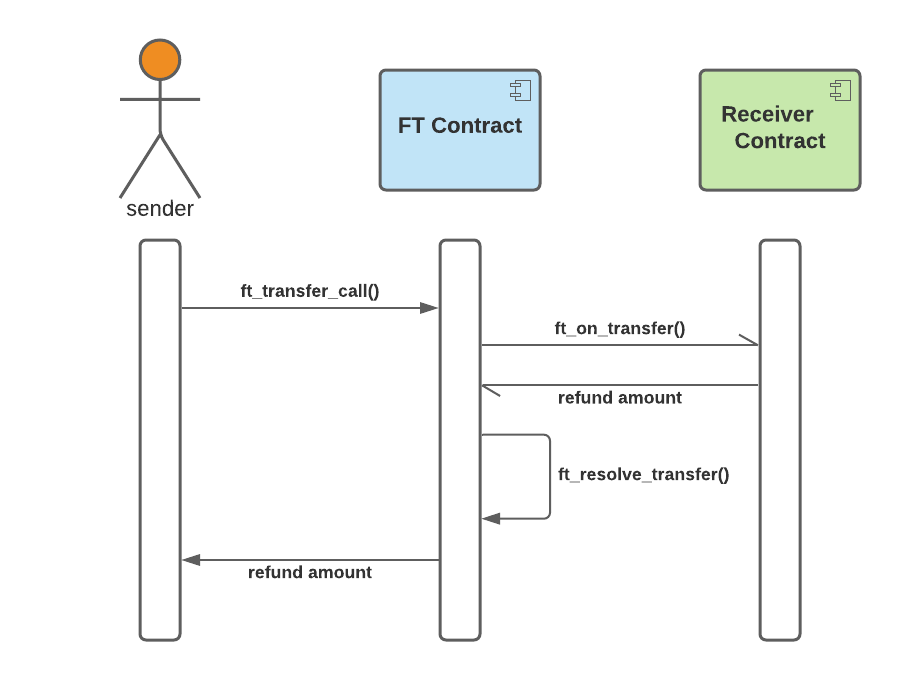
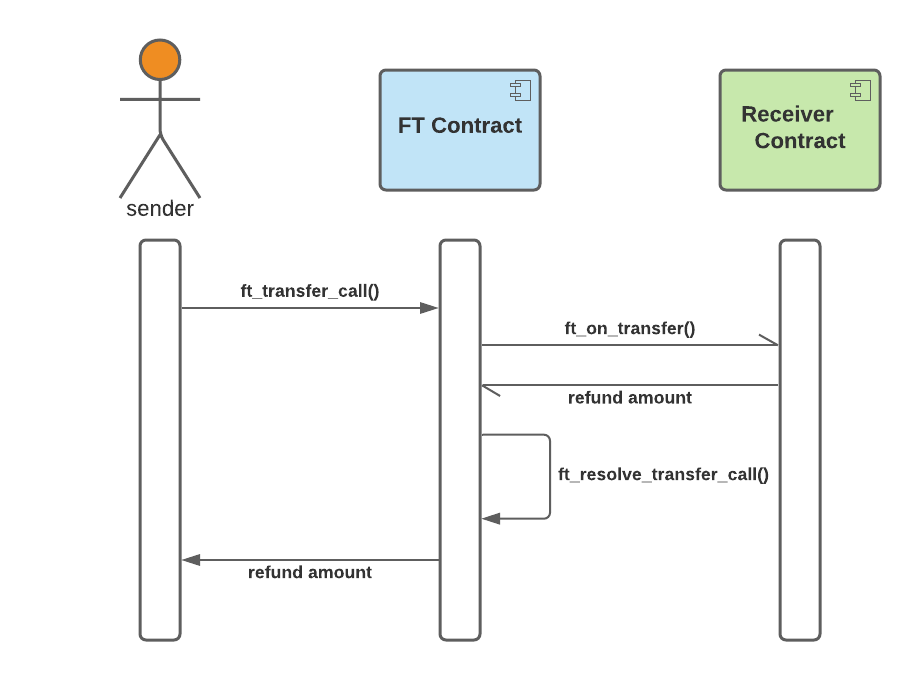
STAKE FT tutorial - WIP

diff --git a/network-documentation/near/tutorials/1-project_overview/3-stake-fungible-token.md b/network-documentation/near/tutorials/1-project_overview/3-stake-fungible-token.md
@@ -109,14 +109,17 @@ traits. It depends on the **TransferReceiver** interface for cross-contract call
     may think this is overkill for something so simple, but my advice is to never take shortcuts. If you are going to do
     something, then do it right in the first place. In addition, the beauty of Rust's zero cost abstractions, is that we 
     can leverage the type system for zero runtime costs (if done right).
-    
-**ResolveTransferCall** trait
-- specifies the private callback interface used as part of the transfer call workflow
-- private means that even though the function is exposed on the contract, only the contract itself is allowed to call the
-  function. If any other account tries to call the private function, then it should fail.
   
 **TransferReceiver** trait
 - represents the contract API required by the transfer receiver contract
+
+**ResolveTransferCall** trait
+- specifies the **private* callback interface used as part of the transfer call workflow
+- the key word here to notice is **private**
+- private means that even though the function is exposed on the contract, only the contract itself is allowed to call the
+  function. If any other account tries to call the private function, then it should fail. 
+- **NOTE**: the callback function signature is not explicitly defined by the FT standard (NEP-141). I am presenting to you
+  my implementation, but you may choose to name your callback whatever you want
 
 ## Show Me the Code
 You can refer to the full source code on github. I will be reviewing the most important parts of the code below.
@@ -225,20 +228,27 @@ fn ft_transfer_call(
 }
 ```
 
-Transfer call is a little more interesting because it involves cross contract calls:
+Transfer call is a little more interesting because it involves cross contract calls. It showcases how NEAR differs and 
+stands out from other blockchains thanks to its sharded architecture.
 
 ![](../../../../.gitbook/assets/oysterpack-near-stake-token-transfer-call.png)
 
-- transfer call workflow will first transfer the tokens - it simply delegates to `ft_transfer()`
-- then it invokes the receiver contract and registers a callback to itself to finalize the transfer
+- transfer call workflow will first transfer the tokens - it simply delegates to `ft_transfer()` as we saw above
+- then it composes the async transfer call workflow using the [Promise][11] abstraction provided by the NEAR Rust SDK
+  - the Promise that is returned is not executed as part of the current block. The NEAR runtime will schedule the
+    the Promise to run async and kickoff the workflow in the next block. It will be executed on the shard that hosts the 
+    receiver account. Once the `ft_on_transfer` call completes on the receiver account, then the NEAR runtime will
+    capture its output data and provide it as input data for the `ft_resolve_transfer_call`. The callback will be 
+    scheduled in the next block to run on the shard that hosts the STAKE token contract.
 - the code uses what's called the high level cross contract pattern provided by NEAR Rust SDK. It works as follows:
 
 The remote function calls are declared as rust traits and annotated with the `#[ext_contract]` attribute. This attribute
-will be used to generate the more low level code to invoke the remote call on the external contract. For each external
-contract interface that is annotated a rust module is generated containing functions that map to the funtions defined
-on the trait. I explicitly specify the module name in the attibute, i.e., `#[ext_contract(ext_transfer_receiver)]` specifies
-the module name to be `ext_transfer_receiver`. The name is optional, and a default name will be generated based on the trait
-name if not specified - but I prefer to be specific. 
+will be used to generate the low level code to invoke the remote call on the external contract. For each external
+contract interface that is annotated, a rust module is generated containing functions that map to the functions defined
+on the trait. I explicitly specify the module name in the attribute, i.e., `ext_transfer_receiver` explicitly specifies
+the module name. The name is optional, and a default name will be generated based on the trait name if not specified - 
+but I prefer to be specific. 
+
 ```rust
 #[ext_contract(ext_transfer_receiver)]
 pub trait ExtTransferReceiver {
@@ -268,16 +278,31 @@ function call that is required by the NEAR protocol:
 - how prepaid gas to supply to the function call
 
 > #### Side Topic ... 
-> Something to be aware of is the the high level cross contract approach works for simple cross contract calls - as in this
-> case. However, sometimes you may need to reach down to use the lower level cross contract approach because you need more
-> robust error handling, or your use case requires batched transactions, etc. We'll explore this topic in future tutorials.
+> Something to be aware of is that the high level cross contract approach works well for simple cross contract calls - 
+> as in this case. However, you may need to reach down to use the lower level cross contract approach because you
+> require more robust error handling, or your use case requires batched transactions, etc. We'll explore this topic in 
+> future tutorials. 
 
-- [Promise][11] is provided by NEAR's Rust SDK. It is used to specify that the contract function call is returning a Promise
-  which defines actions for the NEAR runtime to execute after the current function call is committed. This means that contract
-  state is persisted to storage and permanently stored on the blockchain. The returned Promise is run scheduled to run
-  after the current function completes. If you are coming from Ethereum, this may not be what you expected. The cross 
-  contract call is not part of the current function call's transaction. Thus, in order to be able to handle Promise failures,
-  the pattern on NEAR is to register callbacks on the Promise. This is what is done here.
+#### How Promises work on NEAR
+On NEAR, think of [promises][11] as a way to compose **actions** to run asynchronously on remote contracts. I use the 
+term actions because promises support more than just calling remote functions. You can perform other actions, such as 
+creating and deleting accounts, adding keys, deploying contracts, and of course transferring NEAR - see the [docs][11] details.
+For now, we'll focus the discussion on using promises for remote function calls. 
+
+Remote function calls are always scheduled to run async after the current function is committed to the blockchain. 
+This means contract state will be persisted to blockchain storage before the remote function is executed in a future block - 
+most likely in the next block. If the contract requires to handle the remote contract function call results or perform
+error handling, then the contract must schedule a callback that is triggered when the remote function call completes. 
+We used [Promise::then][12] to connect the two function calls and compose them into the transfer call workflow. 
+
+>#### Remember this about NEAR Promises:
+>
+> 1. Promises are always run async. 
+> 2. In order to handle promise results, the contract must schedule a callback.
+> 3. There are no global transactions that spans across contracts. Think of each contract function call always being executed 
+>   in its own separate transaction. If contract state needs to be rolled back because a downstream promise failed, then
+>   the contract is responsible to rollback the contract state in the form of a compensating transaction.
+
 
 ## Show Me the Tests
 
@@ -300,3 +325,4 @@ your friends some STAKE tokens.
 [9]: https://crates.io/crates/near-bindgen
 [10]: https://docs.rs/near-sdk/2.0.1/near_sdk/json_types/struct.ValidAccountId.html
 [11]: https://docs.rs/near-sdk/2.0.1/near_sdk/struct.Promise.html
+[12]: https://docs.rs/near-sdk/2.0.1/near_sdk/struct.Promise.html#method.then
